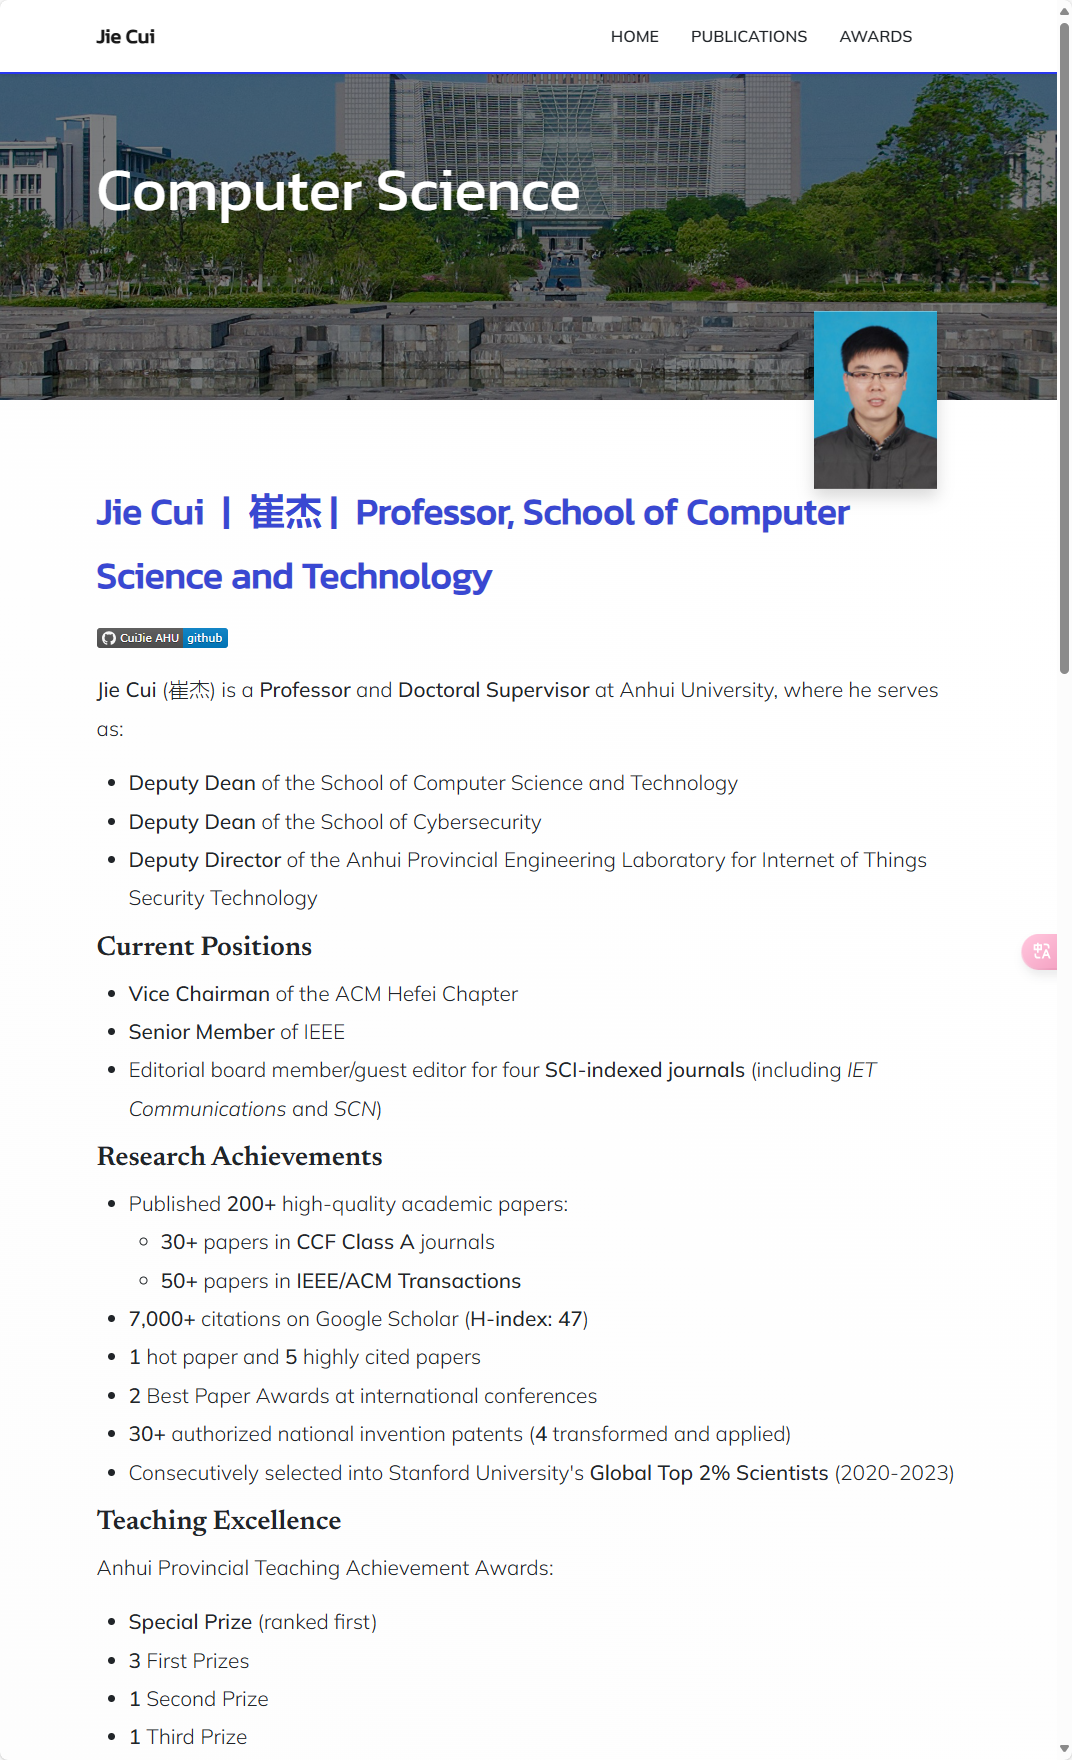
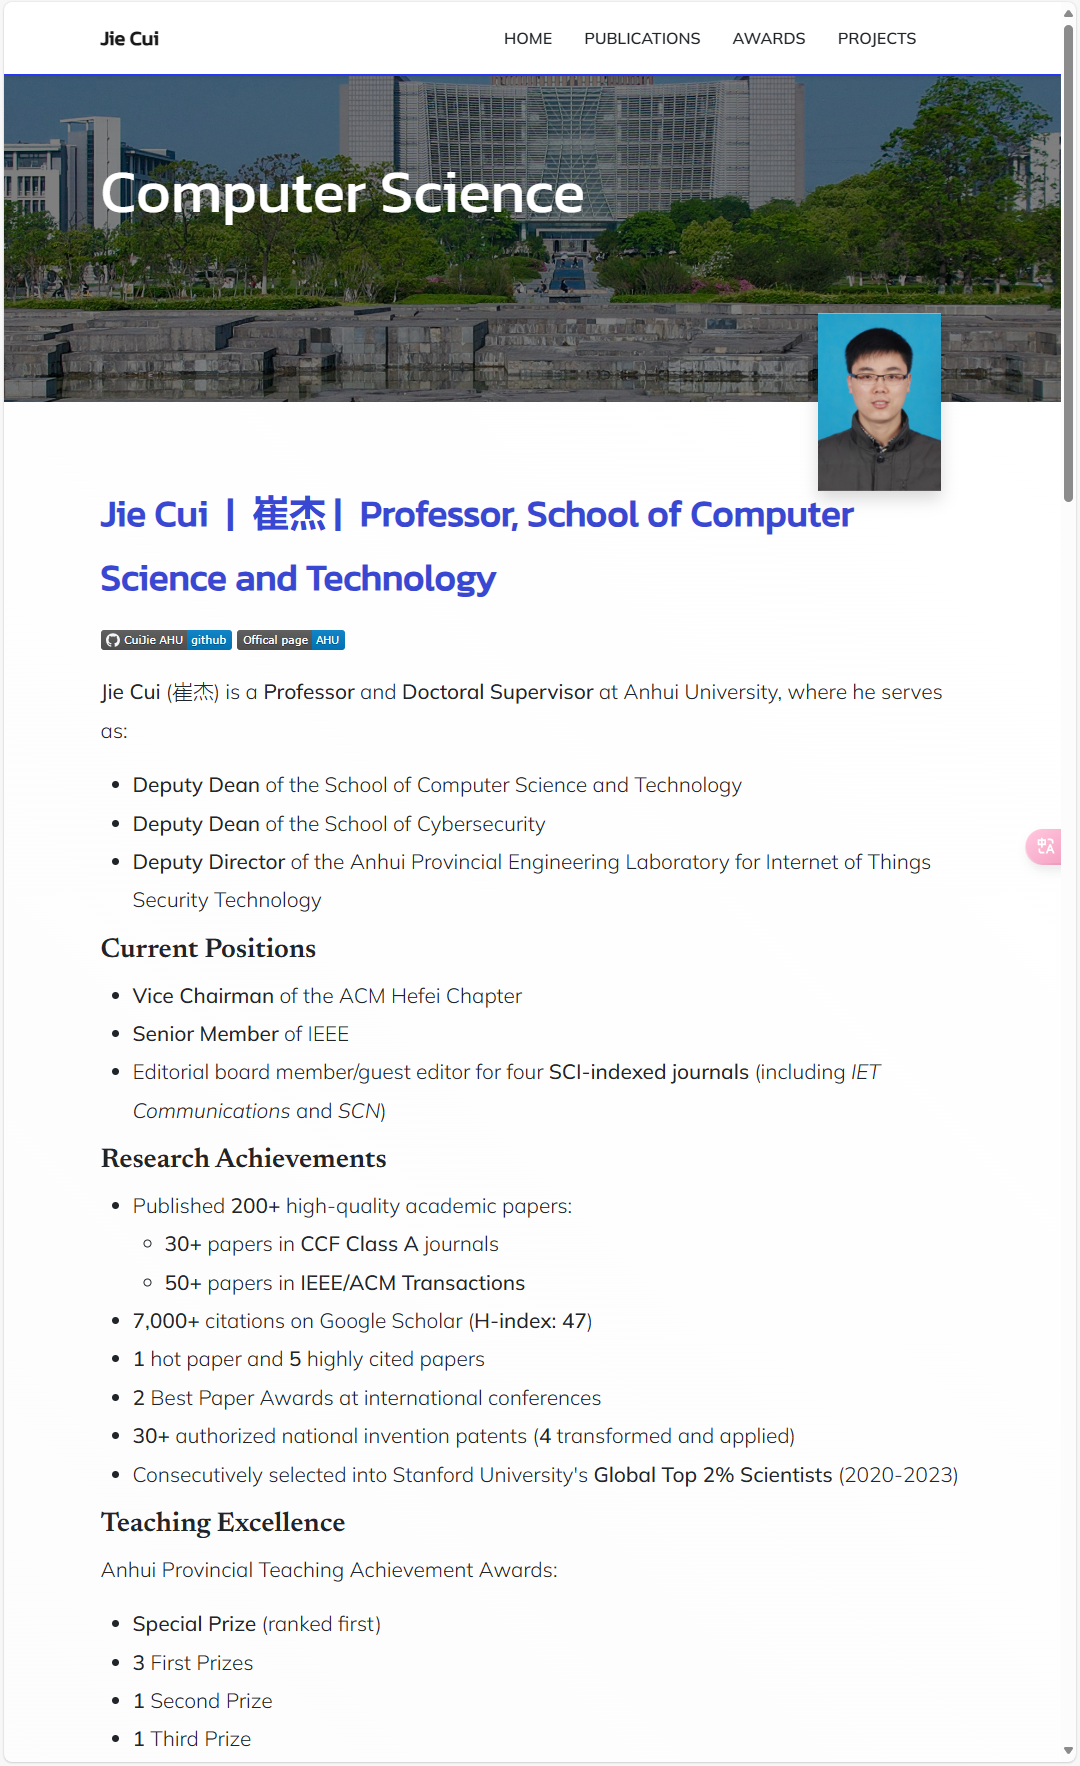
v7

diff --git a/README.md b/README.md
@@ -3,55 +3,50 @@
 ## Preview
 [![Screenshot of the Website](./pre.png)](https://cuijie-ahu.github.io/)
 
+
 **Jie Cui** (崔杰) is a **Professor** and **Doctoral Supervisor** at Anhui University, where he serves as:
-- **Deputy Dean** of the School of Computer Science and Technology
+- **Deputy Party Secretary** of the School of Computer Science and Technology
 - **Deputy Dean** of the School of Cybersecurity
 - **Deputy Director** of the Anhui Provincial Engineering Laboratory for Internet of Things Security Technology
 
-### Current Positions
-- **Vice Chairman** of the ACM Hefei Chapter
+### Academic Affiliations
+
+#### Editorial and Review Roles
+- Editorial Board Member, **IET Communications**
+- Guest Editor, **Security and Communication Networks**
+- Editorial Board Member/Guest Editor for four **SCI-indexed journals** (including *IET Communications* and *SCN*)
+
+#### Professional Memberships
 - **Senior Member** of IEEE
-- Editorial board member/guest editor for four **SCI-indexed journals** (including *IET Communications* and *SCN*)
+- **Vice Chairman** of the ACM Hefei Chapter
+
+#### Conference Organization Roles
+- Publicity Chair, **IEEE/ACM UCC 2020**
 
 ### Research Achievements
 - Published **200+** high-quality academic papers:
   - **30+** papers in **CCF Class A** journals
   - **50+** papers in **IEEE/ACM Transactions**
-- **7,000+** citations on Google Scholar (**H-index: 47**)
+- **8,000+** citations on Google Scholar (**H-index: 47**)
 - **1** hot paper and **5** highly cited papers
 - **2** Best Paper Awards at international conferences
 - **30+** authorized national invention patents (**4** transformed and applied)
 - Consecutively selected into Stanford University's **Global Top 2% Scientists** (2020-2023)
 
-### Teaching Excellence
+### Academic Excellence
+
+Scientific Awards
+- **Third Prize** of Anhui Provincial Natural Science Award (**2023**)
+- **Second Prize** of Scientific and Technological Progress Award, Anhui Computer Federation (**2022**)
+- **Second Prize** of Scientific and Technological Progress Award, Anhui Computer Federation (**2021**)
+
 Anhui Provincial Teaching Achievement Awards:
-- **Special Prize** (ranked first)
-- **3** First Prizes
-- **1** Second Prize
-- **1** Third Prize
+- **First Prize** (**2022**)
+- **First Prize** (**2021**)
+- **Third Prize** (**2021**)
 
 #### Email
 cuijie@mail.ustc.edu.cn
-
-#### Projects
-
-1. **Joint Funds of the National Natural Science Foundation of China**
-   - Role: Principal Investigator
-   - Project: Research on integrated Security Protection System and Key Technologies for Intelligent Connected Vehicles (U23A20308)
-   - Period: 2024.1-2027.12
-   - Funding: 2.57 million CNY
-
-2. **National Natural Science Foundation**
-   - Role: Principal Investigator
-   - Project: Research on Secure Data Sharing Methods for Industrial Internet of Things Based on Blockchain (62272002)
-   - Period: 2023.1-2026.12
-   - Funding: 0.53 million CNY
-
-3. **Anhui Provincial Science Foundation for Distinguished Young Scholar**
-   - Role: Principal Investigator
-   - Project: Research on Active Security Protection Mechanisms for Vehicular Networks (2108085J31)
-   - Period: 2021.1-2023.12
-   - Funding: 0.4 million CNY
 
 #### Research Interests
 - Vehicular network security 
